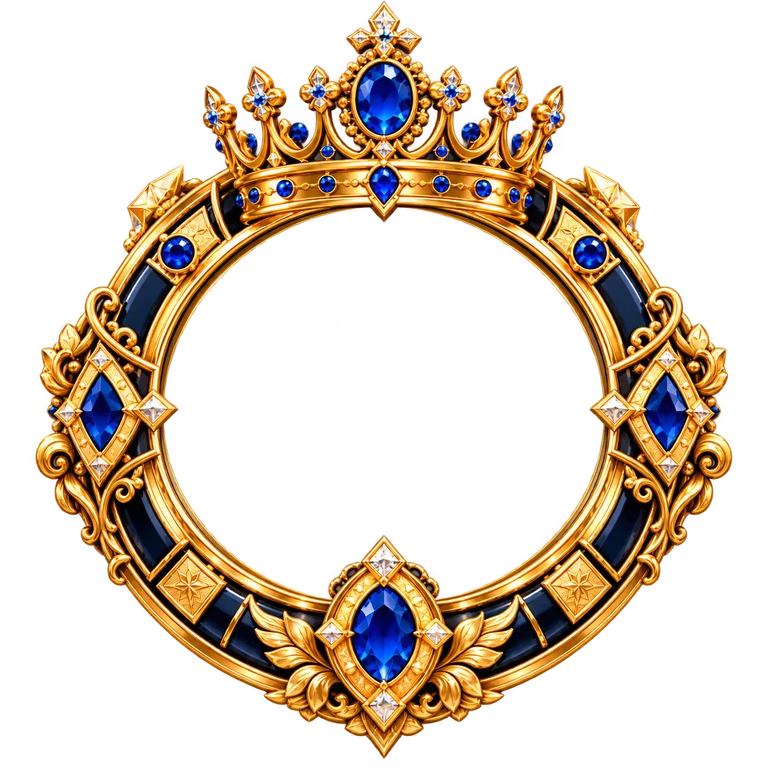
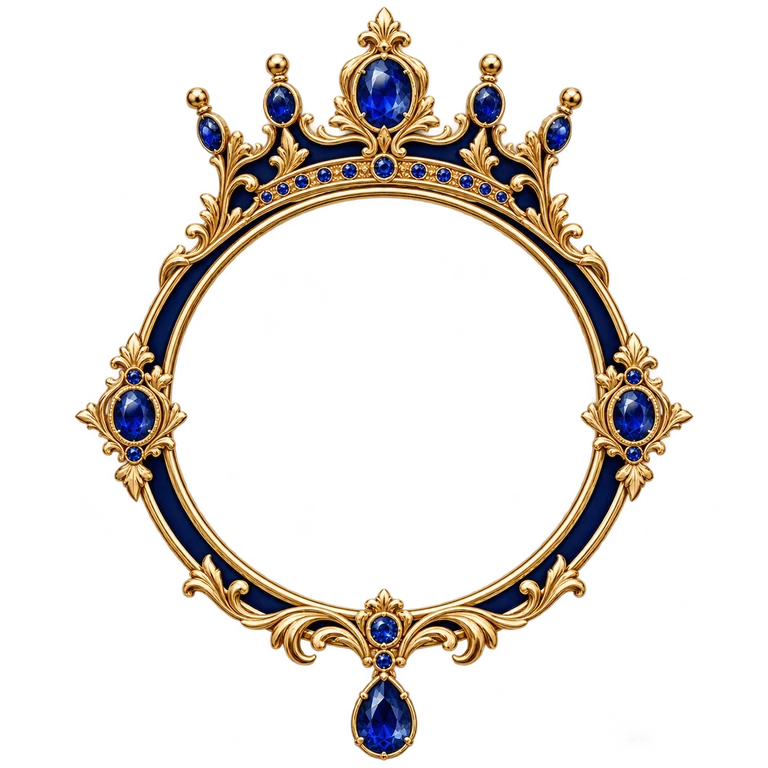
fix(profile): refine owner frame and fit portrait aperture

diff --git a/apps/web/e2e/fixtures/community-harness.tsx b/apps/web/e2e/fixtures/community-harness.tsx
@@ -6,6 +6,8 @@ import { CommunityProfilePage } from '../../src/components/community/profile-vie
 import { AppearanceEditor } from '../../src/components/community/appearance-editor';
 import { AdminIdentity } from '../../src/components/community/admin-identity';
 import { CommandProfile } from '../../src/components/profile/command-profile';
+import { CommunityAvatar } from '../../src/components/community/community-ui';
+import { Avatar } from '../../src/components/voice/voice-ui';
 import {
   fixtureAdmin,
   fixtureAppearance,
@@ -13,11 +15,60 @@ import {
 } from '../../src/components/community/community-fixtures';
 import './visual-excellence-fonts';
 import '../../src/app/globals.css';
+import '../../src/app/voice/voice.css';
 
 const surface = new URLSearchParams(location.search).get('surface');
+// Synthetic presentation only: this does not grant cosmetics or load account 1.
+const ownerFrame = {
+  ...fixtureProfile.frame!,
+  id: 'frame-owner-sapphire',
+  name: 'إطار الياقوت الملكي',
+  tier: 'royal' as const,
+  assetUrl: '/community-assets/frame-owner-sapphire.webp',
+};
+const ownerPreview = {
+  ...fixtureProfile,
+  accountNumber: 1,
+  name: 'معاينة الإطار الملكي',
+  frame: ownerFrame,
+  avatarUrl: '/avatars/ghaith.png',
+};
 createRoot(document.getElementById('root')!).render(
   <main style={{ maxWidth: 1240, marginInline: 'auto', padding: 'clamp(12px, 3vw, 32px)' }}>
-    {surface === 'entrances' ? (
+    {surface === 'owner-frame' ? (
+      <>
+        <CommunityProfilePage accountNumber={1} initialProfile={ownerPreview} />
+        <section aria-label="معاينة مقاسات الإطار" style={{ marginBlockStart: 32 }}>
+          <h2>الصورة في الملف والمجلس</h2>
+          <div style={{ display: 'flex', alignItems: 'center', flexWrap: 'wrap', gap: 24 }}>
+            <CommunityAvatar
+              name={ownerPreview.name}
+              src={ownerPreview.avatarUrl}
+              frame={ownerFrame}
+            />
+            <CommunityAvatar
+              name={ownerPreview.name}
+              src={ownerPreview.avatarUrl}
+              frame={ownerFrame}
+              size="small"
+            />
+            {[40, 48, 64, 112].map((size) => (
+              <Avatar
+                key={size}
+                size={size}
+                speaking
+                user={{
+                  name: ownerPreview.name,
+                  image: ownerPreview.avatarUrl,
+                  communityIdentity: ownerPreview,
+                }}
+              />
+            ))}
+            <CommunityAvatar name={ownerPreview.name} src={null} frame={ownerFrame} />
+          </div>
+        </section>
+      </>
+    ) : surface === 'entrances' ? (
       <VoiceEntranceGallery />
     ) : surface === 'art' ? (
       <CommunityArtHarness />

diff --git a/apps/web/src/components/community/community.module.css b/apps/web/src/components/community/community.module.css
@@ -856,18 +856,27 @@
 }
 /* Transparent jewelry overlays: keep the real portrait inside the circular opening. */
 .avatar[data-exclusive-frame] {
+  --exclusive-photo-size: 64%;
+  --exclusive-photo-inline: 18%;
+  --exclusive-photo-top: 23%;
   border: 0;
   padding: 0;
   background: transparent;
   box-shadow: none;
 }
+/* Match the sapphire artwork's aperture rather than the full crown canvas. */
+.avatar[data-exclusive-frame='frame-owner-sapphire'] {
+  --exclusive-photo-size: 60%;
+  --exclusive-photo-inline: 20%;
+  --exclusive-photo-top: 22%;
+}
 .avatar[data-exclusive-frame] > img:not(.avatarFrame),
 .avatar[data-exclusive-frame] > .avatarPlaceholder {
   position: absolute;
-  inset-inline-start: 18%;
-  inset-block-start: 23%;
-  inline-size: 64%;
-  block-size: 64%;
+  inset-inline-start: var(--exclusive-photo-inline);
+  inset-block-start: var(--exclusive-photo-top);
+  inline-size: var(--exclusive-photo-size);
+  block-size: var(--exclusive-photo-size);
   border-radius: 50%;
   background: var(--surface-strong);
 }
@@ -876,6 +885,14 @@
   inline-size: 100%;
   block-size: 100%;
   border-radius: 0;
+}
+.avatar[data-exclusive-frame='frame-owner-sapphire'] > .avatarPlaceholder {
+  display: grid;
+  place-content: center;
+  padding: 2px;
+  overflow: hidden;
+  font-size: 0.6rem;
+  line-height: 1.35;
 }
 .profileHero[data-background-tier='silver'] .cover {
   background:

diff --git a/apps/web/src/components/voice/voice-art.module.css b/apps/web/src/components/voice/voice-art.module.css
@@ -10,16 +10,24 @@
   height: 100%;
 }
 .exclusiveAvatar:global(.v-avatar) {
+  --exclusive-photo-size: 64%;
+  --exclusive-photo-inline: 18%;
+  --exclusive-photo-top: 23%;
   background: transparent;
   border-color: transparent;
 }
-.exclusiveAvatar > img,
-.exclusiveAvatar > span:not(.frameOverlay) {
+.exclusiveAvatar[data-exclusive-frame='frame-owner-sapphire'] {
+  --exclusive-photo-size: 60%;
+  --exclusive-photo-inline: 20%;
+  --exclusive-photo-top: 22%;
+}
+.exclusiveAvatar:global(.v-avatar) > img,
+.exclusiveAvatar:global(.v-avatar) > span:not(.frameOverlay) {
   position: absolute;
-  inset-inline-start: 18%;
-  inset-block-start: 23%;
-  width: 64%;
-  height: 64%;
+  inset-inline-start: var(--exclusive-photo-inline);
+  inset-block-start: var(--exclusive-photo-top);
+  width: var(--exclusive-photo-size);
+  height: var(--exclusive-photo-size);
   border-radius: 50%;
   background: var(--surface-strong);
 }

diff --git a/apps/web/src/components/voice/voice-ui.tsx b/apps/web/src/components/voice/voice-ui.tsx
@@ -51,6 +51,7 @@ export function Avatar({
   return (
     <span
       className={`v-avatar ${speaking ? 'v-speaking' : ''} ${exclusive ? artStyles.exclusiveAvatar : ''}`}
+      data-exclusive-frame={exclusive ? user.communityIdentity?.frame?.id : undefined}
       style={{
         width: size,
         height: size,

diff --git a/docs/visual-evidence/owner-frame-refinement/README.md b/docs/visual-evidence/owner-frame-refinement/README.md
@@ -1,0 +1,46 @@
+# Owner sapphire frame refinement
+
+Local presentation update, 26 October 2026. The existing `frame-owner-sapphire` belongs to account 1 according to `docs/exclusive-profile-frames.md`. The runtime asset URL is preserved. No database, grants, roles, entrance effects, deployment configuration or production account data changed.
+
+## Result and implementation
+
+The new frame uses a finer champagne-gold bezel, midnight enamel, a five-point sapphire crown and a smaller pendant. The thinner ornament gives the photograph more visual priority. The generated artwork was inspected and encoded with existing Sharp tooling; no runtime dependency was added.
+
+Browser inspection also exposed a CSS cascade defect: the global `.v-avatar img` rule could override the exclusive portrait's 64% dimensions. Adding `.v-avatar` specificity to the existing exclusive portrait selectors restores the intended dimensions, including the existing Amira renderer. No entitlement or rendering logic changed.
+
+Following the requested sizing adjustment, the owner's photograph now occupies 60% of the artwork canvas, positioned 20% from the inline edge and 22% from the top. These account-specific values match the sapphire aperture, replacing the old shared 64% / 18% / 23% placement. Both profile and voice renderers use the same proportions at every size. Other frames retain their original proportions. The missing-photo placeholder is centered and contained within the same opening.
+
+Source master: image-generation output `/workspace/generated_images/exec-ad2c38b2-bbc0-40d8-b392-2ed44017e59d.png`, 1254 × 1254 PNG. Delivered asset: 768 × 768 RGBA WebP, 139094 bytes versus 178658 bytes before (22.1% reduction). Center and corner alpha checked separately. This is generated jewelry artwork, not a physical product photograph.
+
+## Browser evidence
+
+Actual production profile and voice-avatar components rendered by the existing local Vite fixture at `http://127.0.0.1:3331/?surface=owner-frame`. The fixture uses synthetic profile data and the bundled `/avatars/ghaith.png` image; it does not load the real owner account. Launch from `apps/web` with `COMMUNITY_UI_E2E=1 node ../../node_modules/tsx/dist/cli.mjs e2e/fixtures/community-server.ts`.
+
+Chromium `/usr/bin/chromium`, headless, DPR 1, browser zoom 100%, viewport height 1000. Text enlargement uses root font size 200%, not browser zoom. Before and after use the same fixture and CSS imports; after additionally includes the intended cascade correction.
+
+| State | Before | After |
+| --- | --- | --- |
+| Mobile, 390px | [Before](before-390.png) | [After](after-390.png) |
+| Desktop, 1440px | [Before](before-1440.png) | [After](after-1440.png) |
+| Narrow, 320px, 200% text, reduced motion | — | [After](after-320-text200-reduced.png) |
+| Light theme, 390px | — | [After](after-390-light.png) |
+
+[Avatar details](detail-390.png). [Before measurements](before-checks.json), [after measurements](after-checks.json), [portrait geometry and axe](accessibility-checks.json).
+
+All four final states display eight owner-frame images, with no broken images, JavaScript errors or page-level horizontal overflow. Profile avatars are exercised at 48/88px (the existing profile CSS sets large avatars to 88px); voice avatars at 40/48/64/112px, including speaking state and a missing photograph. Owner photo widths are measured at 60% of the computed avatar width, with 20% inline and 22% top offsets. The frame remains decorative and does not intercept pointer events; no interaction behavior was changed. Frame resource encoded bytes match the delivered asset.
+
+## Engineering checks
+
+- Targeted Vitest: 3 files, 33 tests passed (`exclusive-cosmetics`, `realistic-art`, `voice-ui`).
+- ESLint on the changed fixture and production voice component: passed.
+- `git diff --check`: passed.
+- Initial local build/typecheck exposed missing installed dependencies and stale generated types. Installed the existing frozen lockfile and regenerated the existing Prisma client and workspace packages before release validation; no dependency versions or schema were changed.
+- Final `pnpm --filter @tahaddi/web build`: passed, including Next.js TypeScript checking, public-bundle exposure check and CSS color-budget check. Stale generated `.next` route types were moved out of the worktree before the clean build. Prerequisite contracts/database/domain and map package builds passed.
+- Prettier check of changed TSX/CSS and this report: passed.
+- Axe on the final mobile fixture: no violations; image-composited color contrast remains incomplete.
+
+## Art Director / Visual QA
+
+Reviewer: Codex primary agent, self-review. Scope: avatar artwork and portrait placement. Composition 19/20; colors 13/15; typography/details 13/15; assets 18/20; responsive 14/15; usability/accessibility 13/15; total **90/100**. Deductions reflect unverified composited contrast and physical-device behavior, miniature gem detail loss, and existing profile-page text clipping at 200% text size. The affected avatar photographs remain within their rings after the correction.
+
+Decision: **unverified** for full Visual Excellence acceptance; the scoped improvement is reviewable. Existing surrounding profile controls/labels can clip or wrap poorly at 320px with 200% text. These surrounding layout issues are outside this artwork update and are not claimed fixed. No physical iOS/Safari, authenticated production account, live audio, FPS or keyboard-flow acceptance is claimed. Local evidence precedes the user-authorized GitHub push and production deployment; release status is reported separately.

diff --git a/apps/web/public/community-assets/README.md b/apps/web/public/community-assets/README.md
@@ -13,10 +13,12 @@ Built-in artwork does not confer a grant or account role. Custom administrator-u
 
 Exclusive account overlays (user-approved reference, 21 October 2026):
 
-- `frame-owner-sapphire.webp`: 768 × 768, 178658 bytes, gold crown and blue sapphires.
+- `frame-owner-sapphire.webp`: 768 × 768, 139094 bytes, refined champagne-gold crown, midnight enamel and blue sapphires. Updated 26 October 2026; see [browser review](../../../../docs/visual-evidence/owner-frame-refinement/README.md).
 - `frame-amira-rose.webp`: 768 × 768, 213146 bytes, rose gold, pink gems and pearls.
 
 Generated from the user's approved board with transparent portrait holes and exterior alpha. Original masters are 1254 × 1254 PNGs in the session workspace (`exec-660e7202-f8ec-4945-8c62-aedfa23f09d9.png` and `exec-e96e3e04-edfa-4942-b33c-672d21c98de8.png`). Sharp only resizes and encodes WebP; the artwork itself is produced by the image-generation tool. Both center and corner alpha are zero. No third-party stock assets or additional client libraries are included. Existing atlas files remain unchanged.
+
+The owner's refined frame replaces its original artwork with a newly generated 1254 × 1254 transparent master, `exec-ad2c38b2-bbc0-40d8-b392-2ed44017e59d.png`, retained in `/workspace/generated_images` for this session. It retains the existing asset URL, crown/sapphire identity and portrait alignment. Delivery is 768 × 768 WebP, quality 90 / alpha quality 100, 22.1% fewer bytes than the previous owner frame. The Amira artwork and exclusive grants are unchanged.
 
 Artwork URLs are public for display; ownership and equip/grant permissions are enforced separately on the server and by database constraints. These frames confer no role or rank.
 
